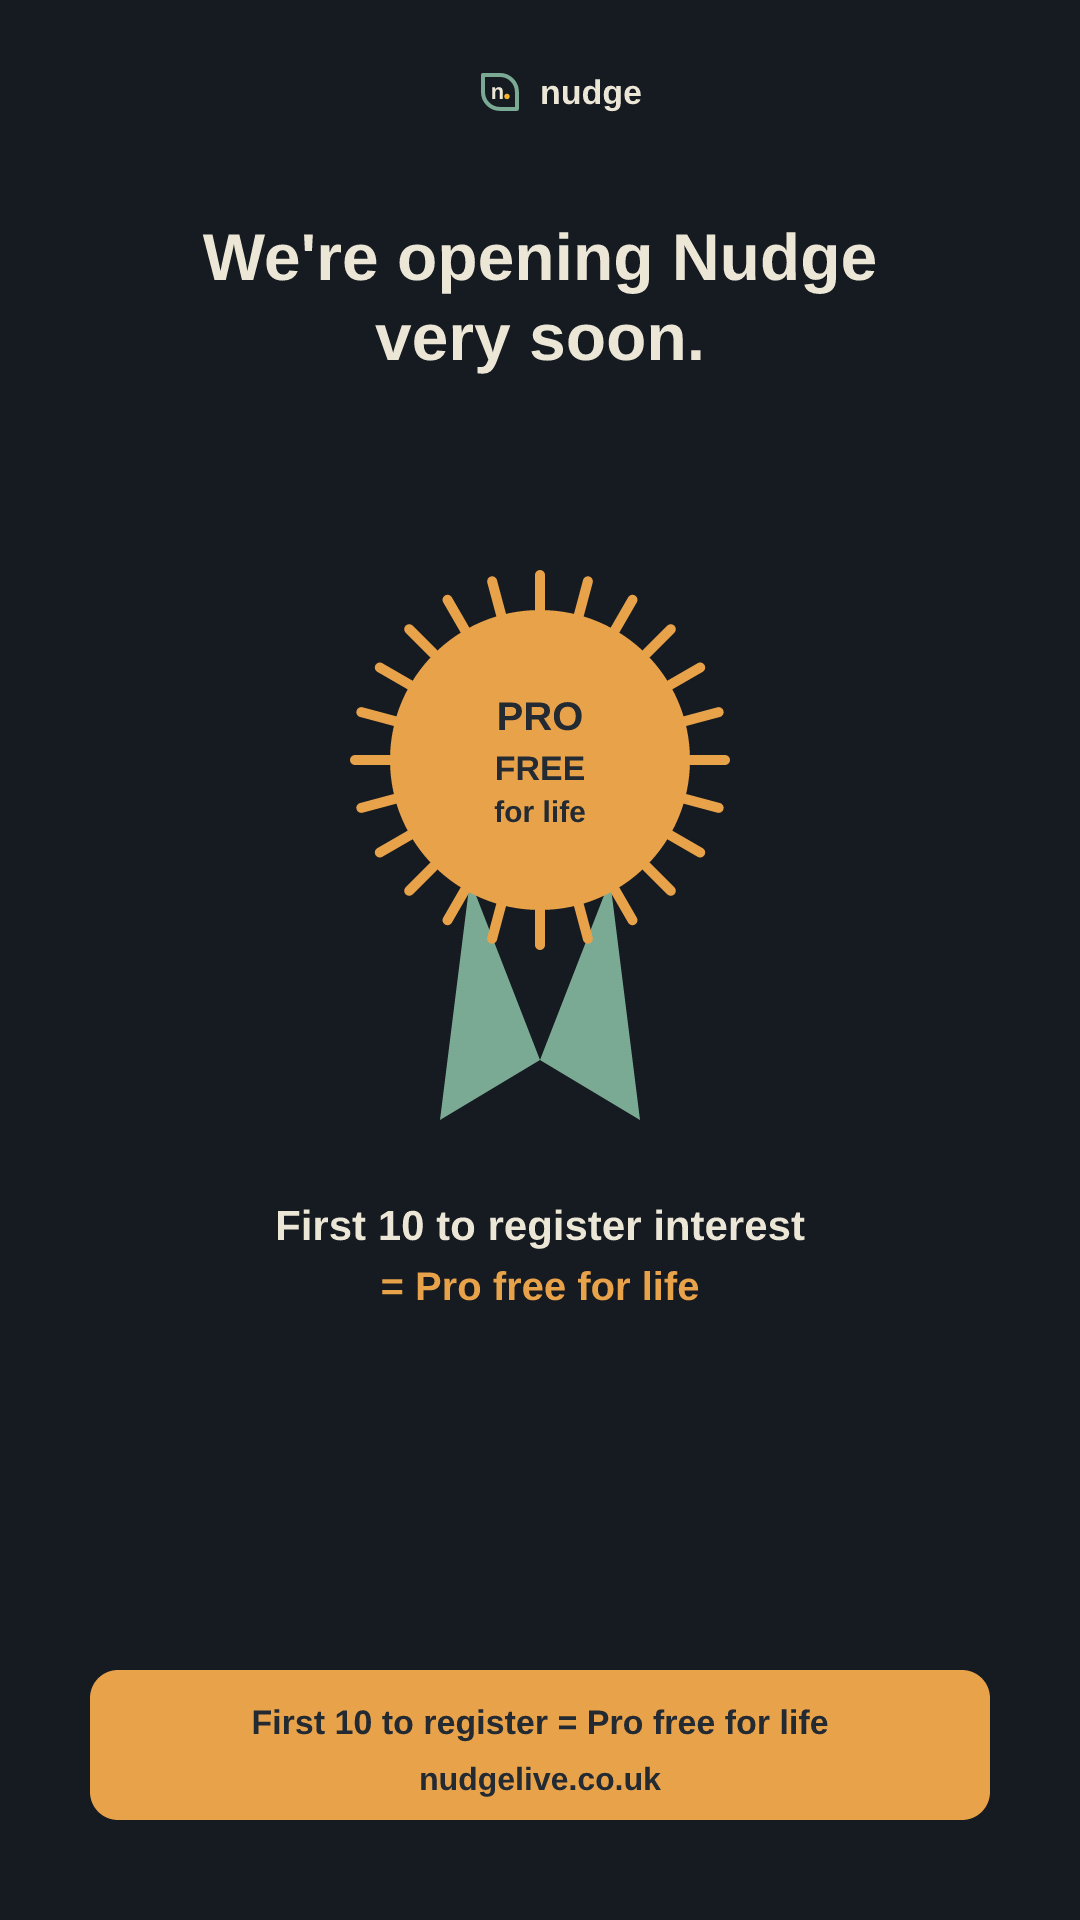
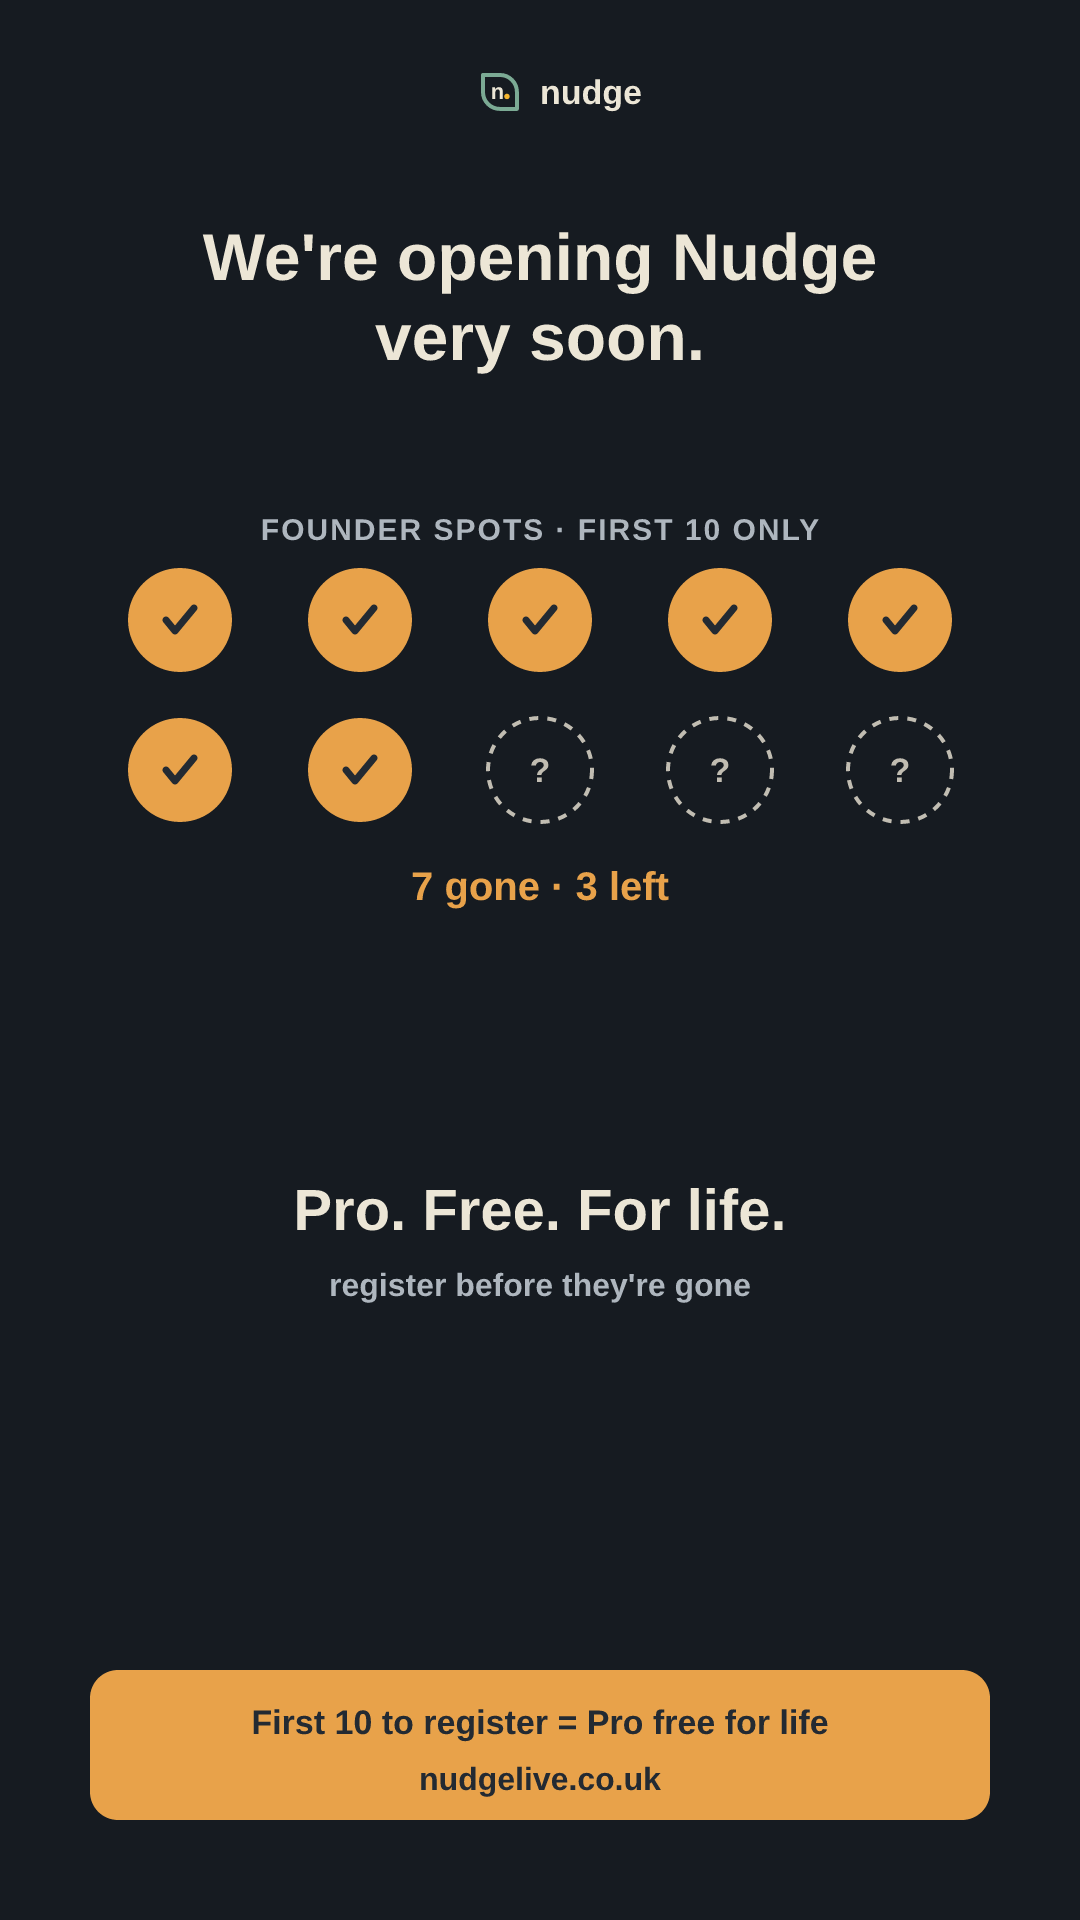
Day 5 promo: replace rosette with a 'founder spots filling up' scarcity visual
10 founder seats (7 taken w/ check, 3 open dashed) + '7 gone · 3 left' →
'Pro. Free. For life.' — more urgent and tied to the first-10 mechanic than
the static rosette. Cover + clip regenerated.

Changed region(s): [[0.2444, 0.25, 0.7639, 0.6875], [0.1222, 0.2812, 0.2139, 0.4375], [0.7639, 0.2812, 0.8861, 0.375]]

diff --git a/scripts/gen-social.ts b/scripts/gen-social.ts
@@ -316,22 +316,28 @@ function motif(d: Day, st: CStyle): { chaos: string; resolved: string } {
       };
     }
     case "promo": {
-      const ray = Array.from({ length: 24 }, (_, i) => {
-        const a = (i / 24) * 2 * Math.PI;
-        return `<line x1="${540 + 150 * Math.cos(a)}" y1="${760 + 150 * Math.sin(a)}" x2="${540 + 185 * Math.cos(a)}" y2="${760 + 185 * Math.sin(a)}"/>`;
-      }).join("");
+      // Scarcity: 10 founder spots, 7 taken, 3 left.
+      const taken = 7;
+      let seats = "";
+      for (let i = 0; i < 10; i++) {
+        const cx = 180 + (i % 5) * 180;
+        const cy = 620 + Math.floor(i / 5) * 150;
+        if (i < taken) {
+          seats += `<circle cx="${cx}" cy="${cy}" r="52" fill="${st.accent}"/>` + check(cx, cy, C.navy);
+        } else {
+          seats +=
+            `<circle cx="${cx}" cy="${cy}" r="52" fill="none" stroke="${CREAM}" stroke-width="4" stroke-dasharray="9 9" opacity="0.8"/>` +
+            `<text x="${cx}" y="${cy + 12}" font-size="34" font-weight="800" fill="${CREAM}" text-anchor="middle" opacity="0.8">?</text>`;
+        }
+      }
       return {
         chaos:
-          `<path d="M 470 880 l -30 240 l 100 -60 z" fill="${C.green}"/>` +
-          `<path d="M 610 880 l 30 240 l -100 -60 z" fill="${C.green}"/>` +
-          `<g stroke="${st.accent}" stroke-width="10" stroke-linecap="round">${ray}</g>` +
-          `<circle cx="540" cy="760" r="150" fill="${st.accent}"/>` +
-          `<text x="540" y="730" font-size="40" font-weight="800" fill="${C.navy}" text-anchor="middle">PRO</text>` +
-          `<text x="540" y="780" font-size="34" font-weight="800" fill="${C.navy}" text-anchor="middle">FREE</text>` +
-          `<text x="540" y="822" font-size="30" font-weight="700" fill="${C.navy}" text-anchor="middle">for life</text>`,
+          `<text x="540" y="540" font-size="30" font-weight="800" fill="${st.sub}" text-anchor="middle" letter-spacing="2">FOUNDER SPOTS · FIRST 10 ONLY</text>` +
+          seats +
+          `<text x="540" y="900" font-size="40" font-weight="800" fill="${st.accent}" text-anchor="middle">7 gone · 3 left</text>`,
         resolved:
-          `<text x="540" y="1240" font-size="42" font-weight="800" fill="${st.ink}" text-anchor="middle">First 10 to register interest</text>` +
-          `<text x="540" y="1300" font-size="40" font-weight="800" fill="${st.accent}" text-anchor="middle">= Pro free for life</text>`,
+          `<text x="540" y="1230" font-size="58" font-weight="800" fill="${st.ink}" text-anchor="middle">Pro. Free. For life.</text>` +
+          `<text x="540" y="1296" font-size="32" font-weight="700" fill="${st.sub}" text-anchor="middle">register before they're gone</text>`,
       };
     }
     case "forward-email": {